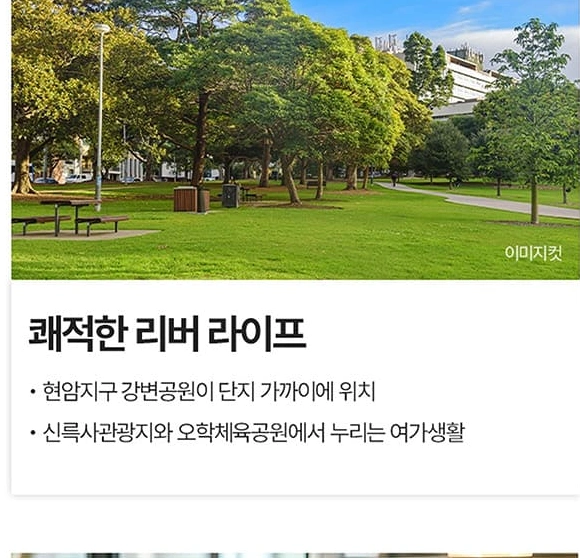
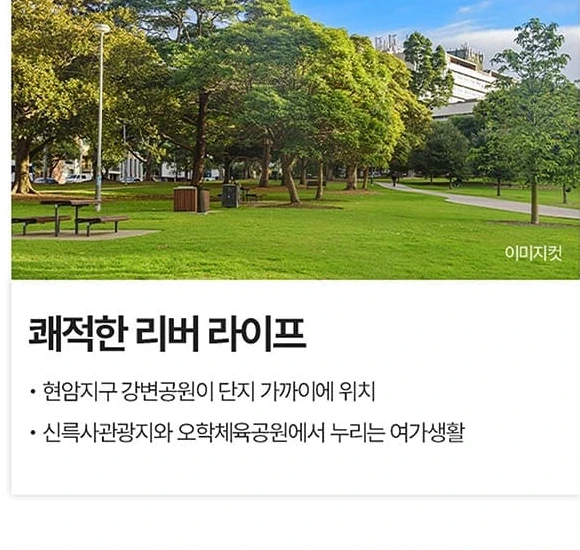
입지환경 리버라이프 카드 하단 슬라이스 잔여분 제거

diff --git a/src/pages/location.html b/src/pages/location.html
@@ -41,7 +41,7 @@
         <img src="../../assets/supply-guide.webp" alt="이안 리버파크 여주 공급안내 - 건축개요, 세대당 주택공급면적 및 모집 세대수(총 487세대), 사업현장 위치도(여주역·경강선·GTX-D 예정)" width="2480" height="3508" fetchpriority="high" decoding="async" />
         <div class="premium-grid">
           <img class="reveal-slide" src="../../assets/loc-benefit-2.webp" alt="판교, 강남까지 더 빠른 광역교통망 - 경강선 개통으로 판교까지 약 40분대, 현암교차로·광주원주(제2영동)고속도로" width="568" height="562" loading="lazy" decoding="async" />
-          <img class="reveal-slide" src="../../assets/loc-benefit-3.webp" alt="쾌적한 리버 라이프 - 현암지구 강변공원 인접, 신륵사관광지·오학체육공원 여가생활" width="580" height="558" loading="lazy" decoding="async" />
+          <img class="reveal-slide" src="../../assets/loc-benefit-3.webp?v=20260709h" alt="쾌적한 리버 라이프 - 현암지구 강변공원 인접, 신륵사관광지·오학체육공원 여가생활" width="580" height="550" loading="lazy" decoding="async" />
           <img class="reveal-slide" src="../../assets/loc-benefit-4.webp" alt="풍부한 인프라 - 하나로마트·이마트·여주시립박물관, 시청·법원 등 관공서 인접" width="568" height="558" loading="lazy" decoding="async" />
           <img class="reveal-slide" src="../../assets/loc-benefit-5.webp" alt="여주의 주거 중심 - 법조타운 주변 새로운 주거벨트, 현암지구 도시개발사업의 비전" width="580" height="510" loading="lazy" decoding="async" />
         </div>